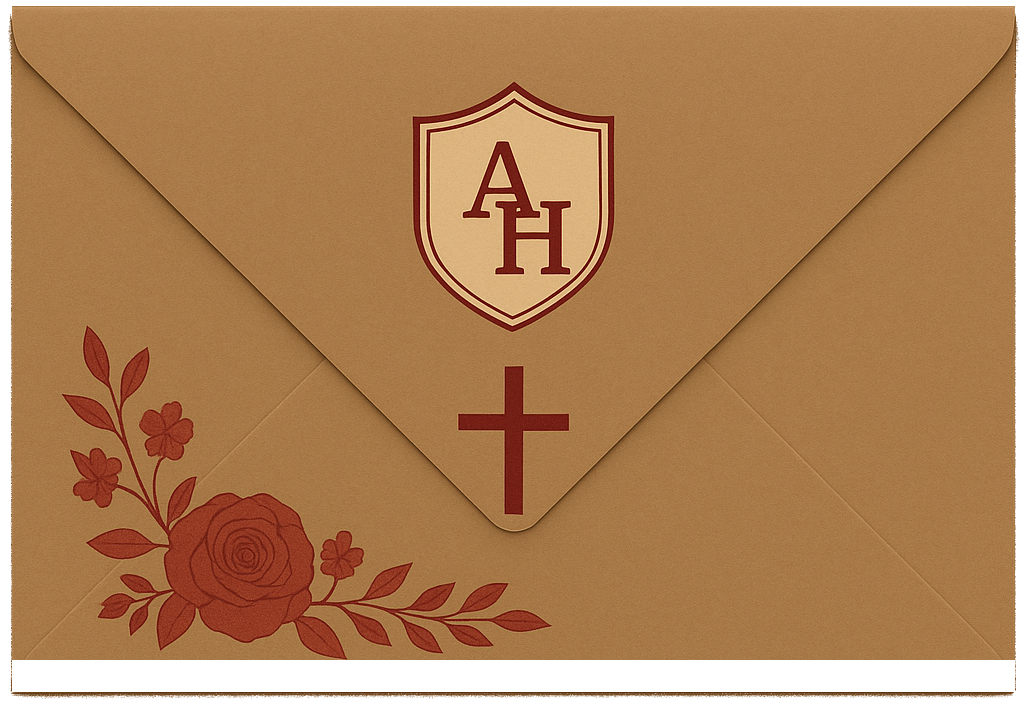
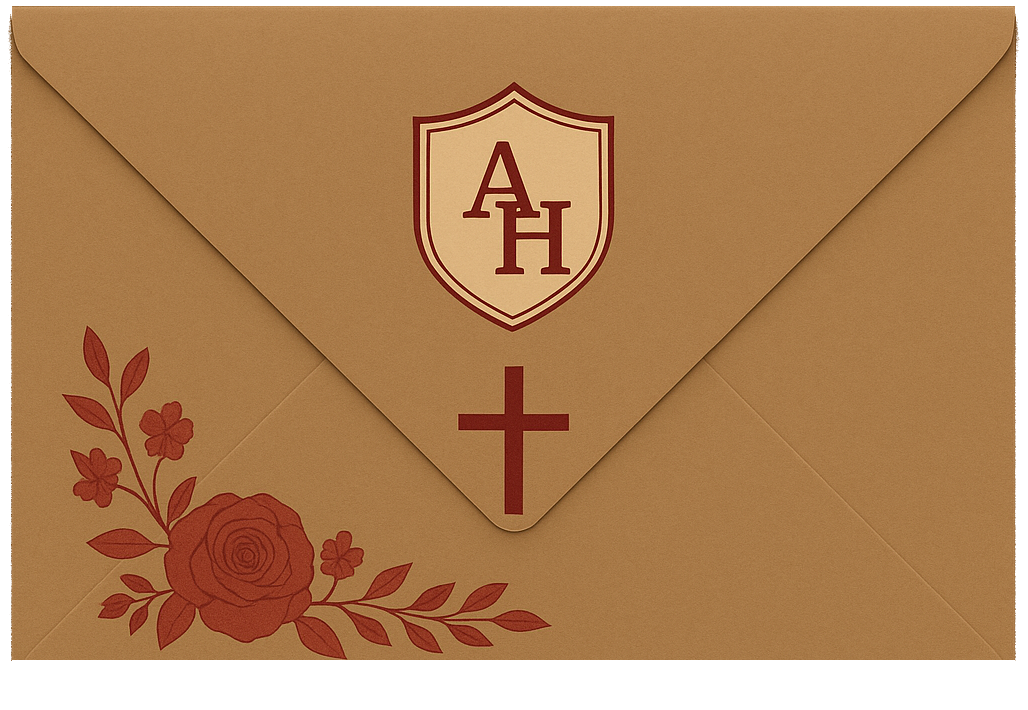
fix: envelope images

Changed region(s): [[0.0, 0.9606, 0.9961, 0.9915]]

diff --git a/src/app/components/invite-chandler/invite-chandler.component.html b/src/app/components/invite-chandler/invite-chandler.component.html
@@ -3,7 +3,7 @@
   monogram="Chandler"
   [heart]="false"
   seal="✝"
-  closedImage="invite-envelope.png"
+  closedImage="invite-batismo.png"
   alt="Convite de padrinho de batismo"
   signoff="Com carinho e gratidão,"
   signature="Adrian">

diff --git a/src/app/components/invite-gafa/invite-gafa.component.html b/src/app/components/invite-gafa/invite-gafa.component.html
@@ -3,7 +3,7 @@
   monogram="Gabriela"
   [heart]="false"
   seal="✝"
-  closedImage="invite-envelope.png"
+  closedImage="invite-batismo.png"
   alt="Convite de batismo"
   greeting="Oi Gabriela, tudo bem?"
   signoff="Com muito carinho,"
